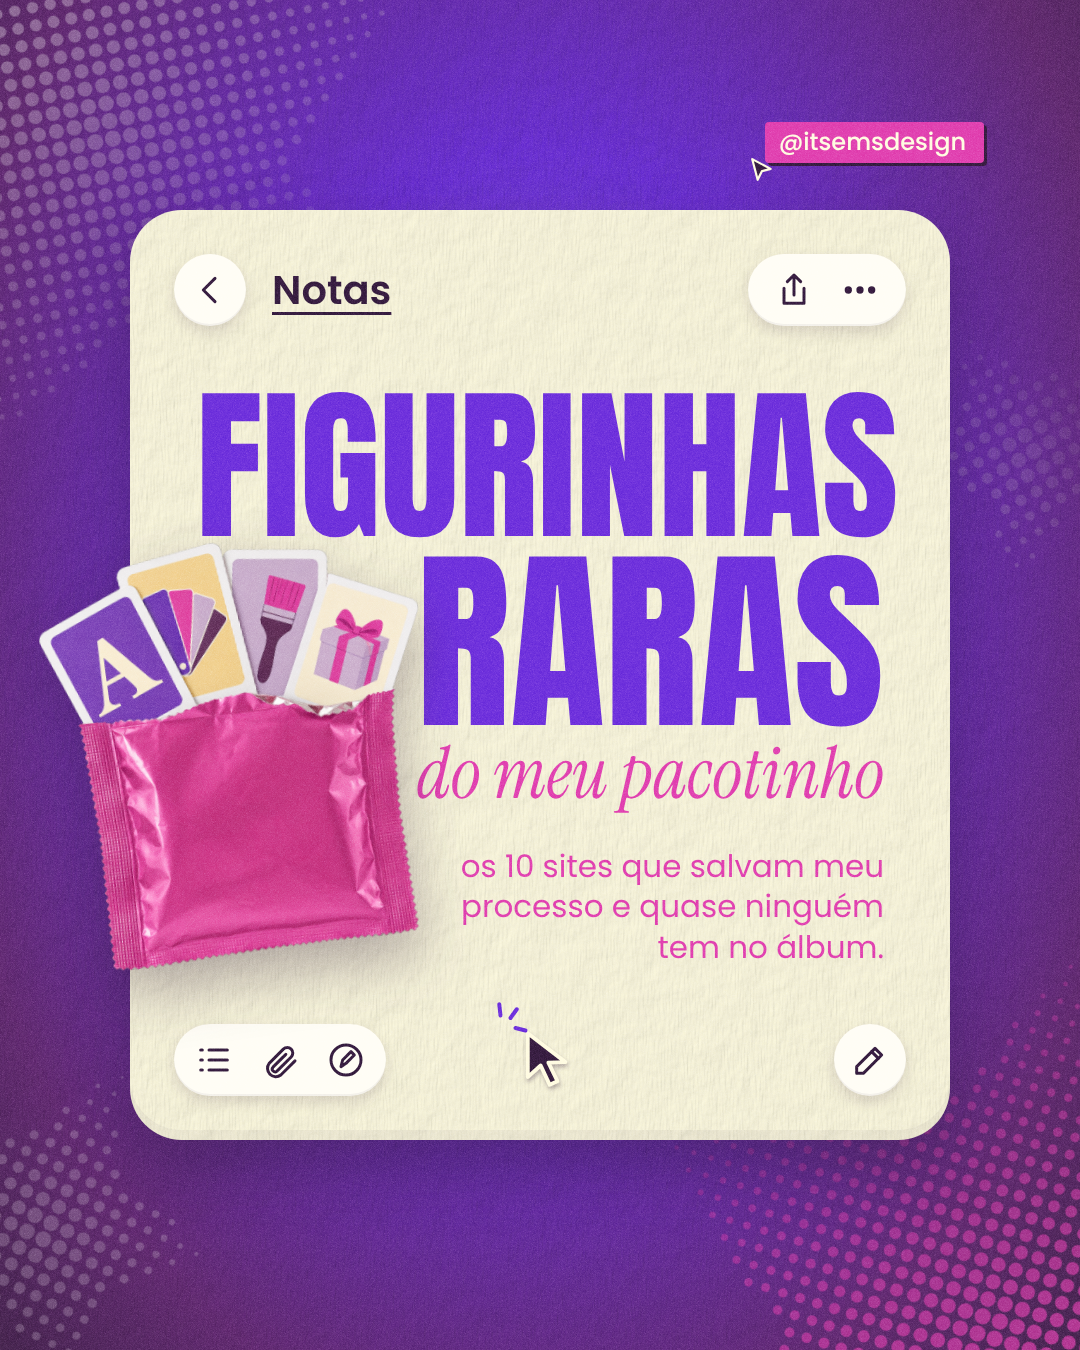
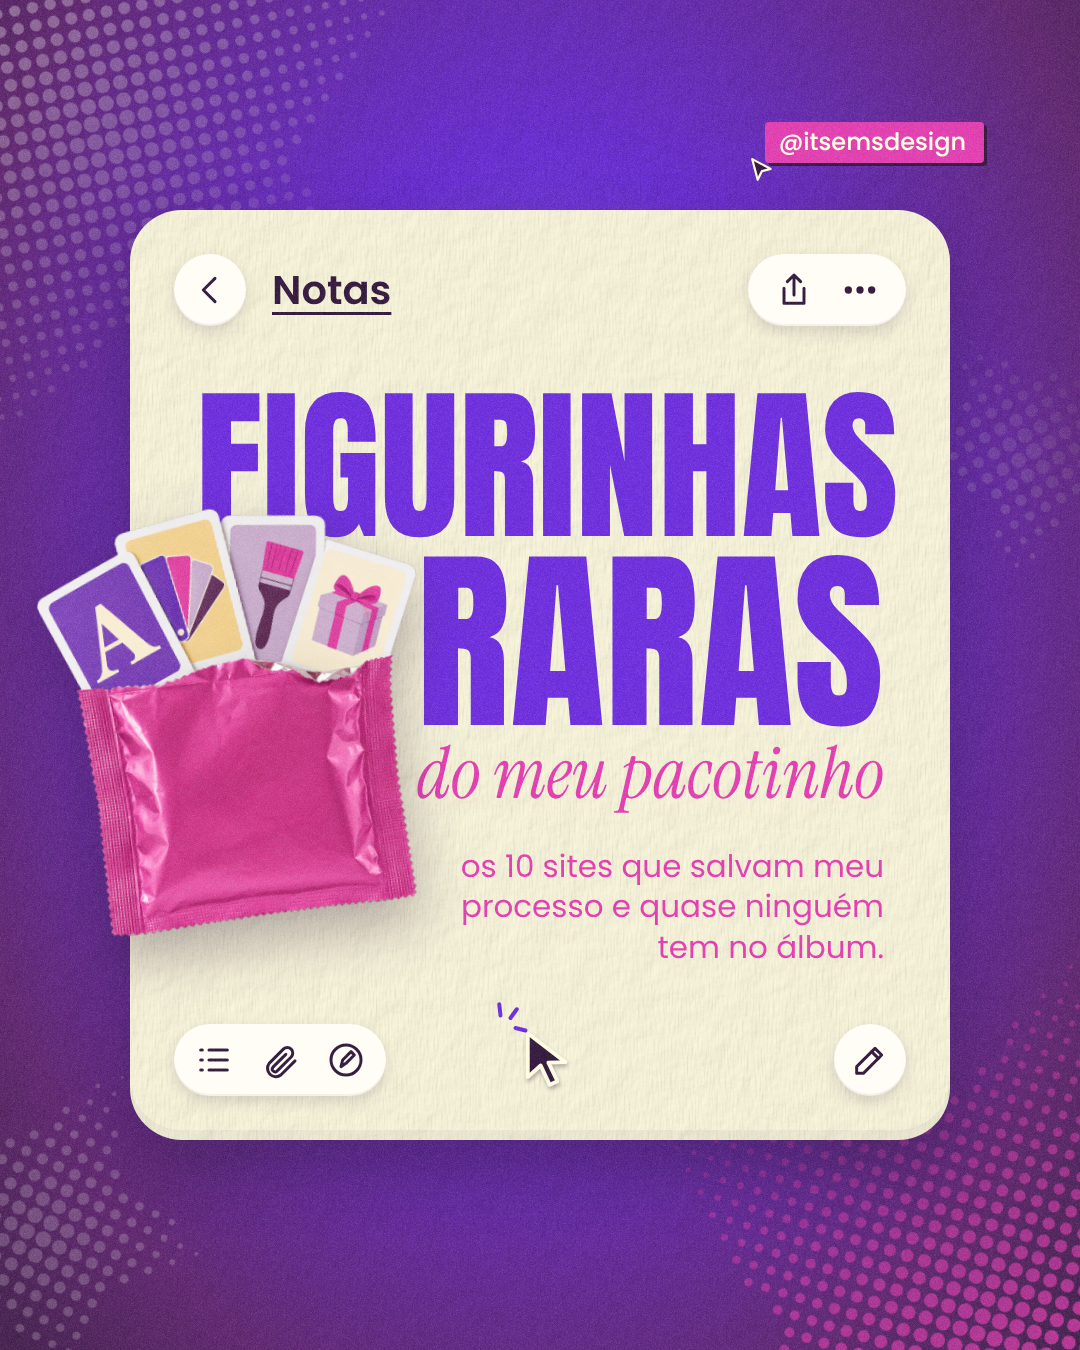
EMS figurinhas raras v4: figurinhas passando levemente por cima do título na capa
Claude-Session: https://claude.ai/code/session_01CmCiKB9wFc4qQovptupnZT

Changed region(s): [[0.0306, 0.3733, 0.3972, 0.7467], [0.1833, 0.56, 0.2139, 0.5911]]

diff --git a/Emi/ems-album-figurinhas/projeto/carrossel.html b/Emi/ems-album-figurinhas/projeto/carrossel.html
@@ -105,7 +105,7 @@ const brilho4 = (x, y, tam, cor, r = 0) => `<svg class="abs" style="left:${x}px;
       <div class="abs" style="left:44px;bottom:44px">${botao(ic('<path d="M4 6h1M9 6h11M4 12h1M9 12h11M4 18h1M9 18h11"/>') + ic('<path d="M21 12.5l-8.5 8.5a5 5 0 01-7-7L14 5.5a3.3 3.3 0 014.7 4.7L10.2 18.7a1.7 1.7 0 01-2.4-2.4L15.5 8.6"/>') + ic('<circle cx="12" cy="12" r="9"/><path d="M9 16l1-4 5-5 2 2-5 5-3 2z"/>'))}</div>
       <div class="abs" style="right:44px;bottom:44px">${botao(ic('<path d="M4 20h4L19 9l-4-4L4 16v4z"/><path d="M13 7l4 4"/>'), 'padding:16px;')}</div>
     </div>
-    ${objeto({ x: CX - 74, y: CY + 330, w: 380, r: -8, src: 'pacotinho' })}
+    ${objeto({ x: CX - 76, y: CY + 296, w: 380, r: -8, src: 'pacotinho' })}
     <!-- nome fora do cartão, no alto à direita -->
     <div class="handle" style="right:96px;top:122px;--bg:var(--pink);font-size:24px">@itsemsdesign${CURSOR}</div>
     <!-- o clique é no cartão, embaixo e no meio: como se abrisse a nota -->
